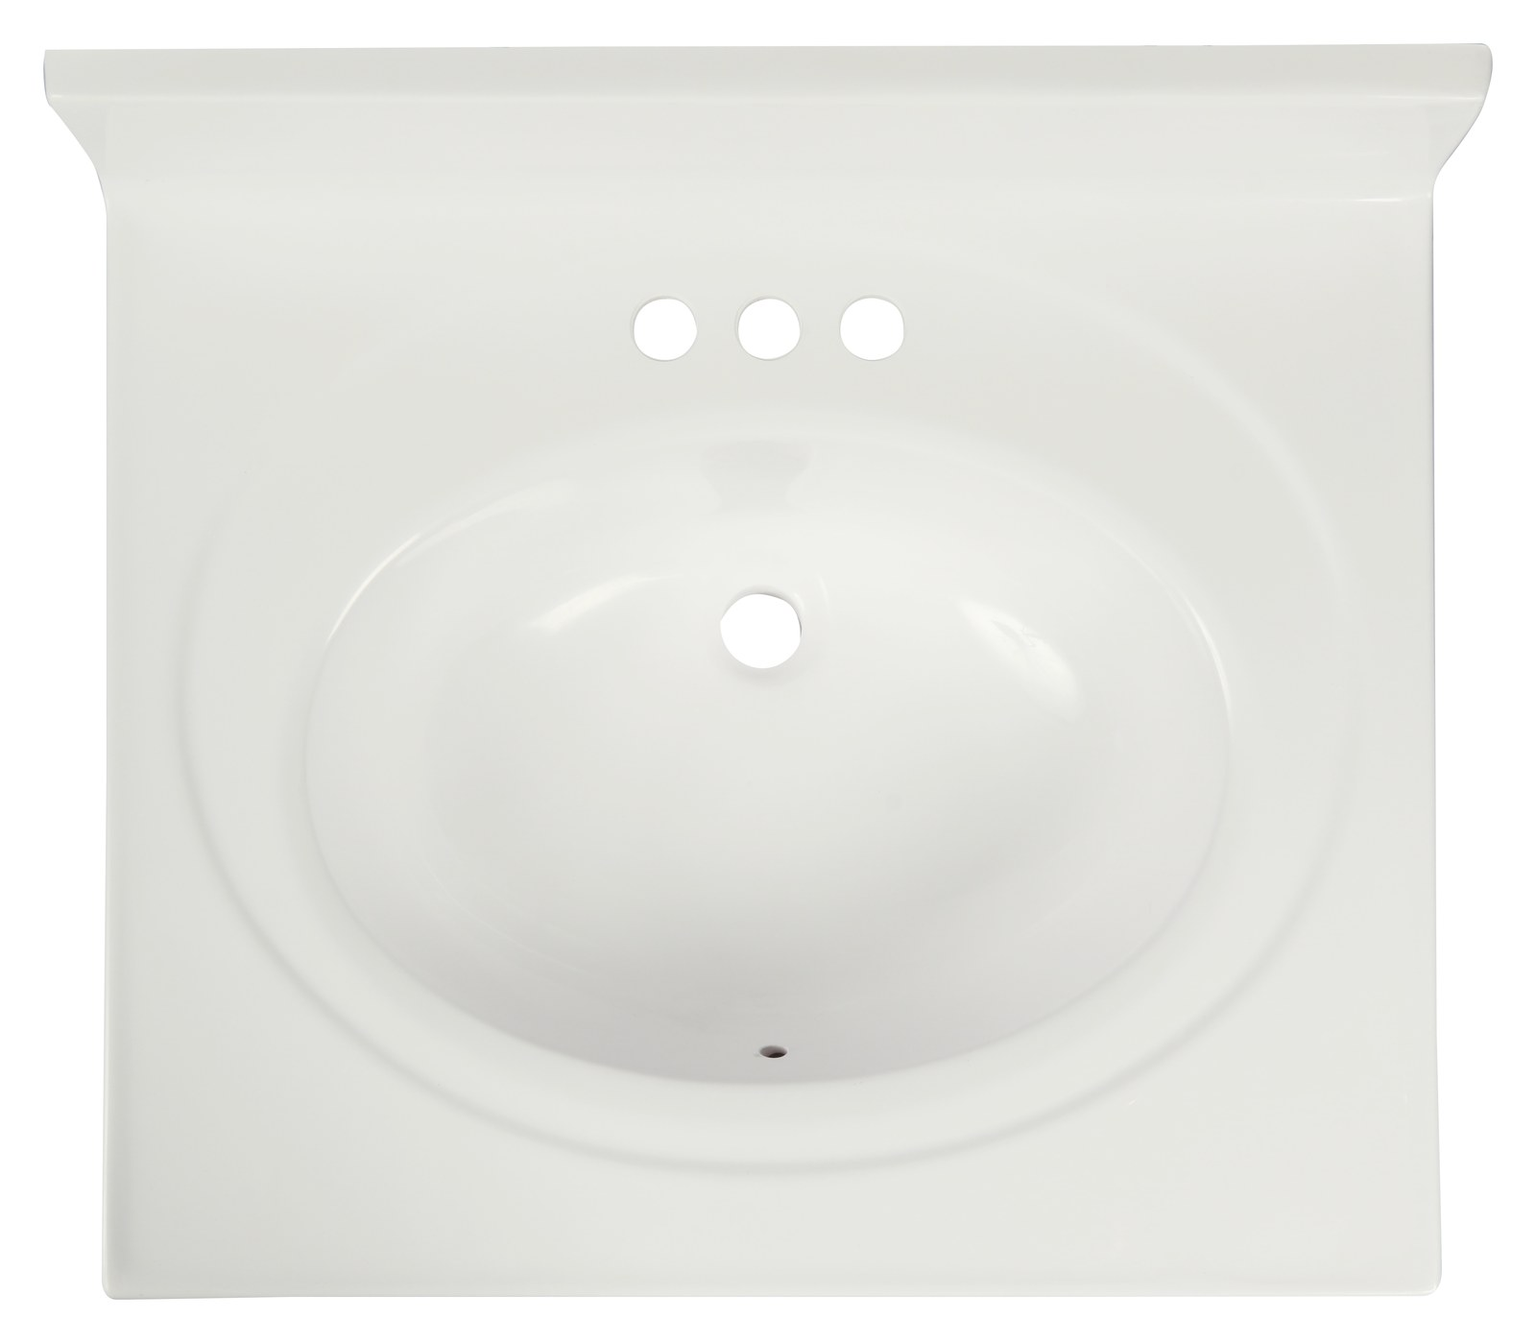
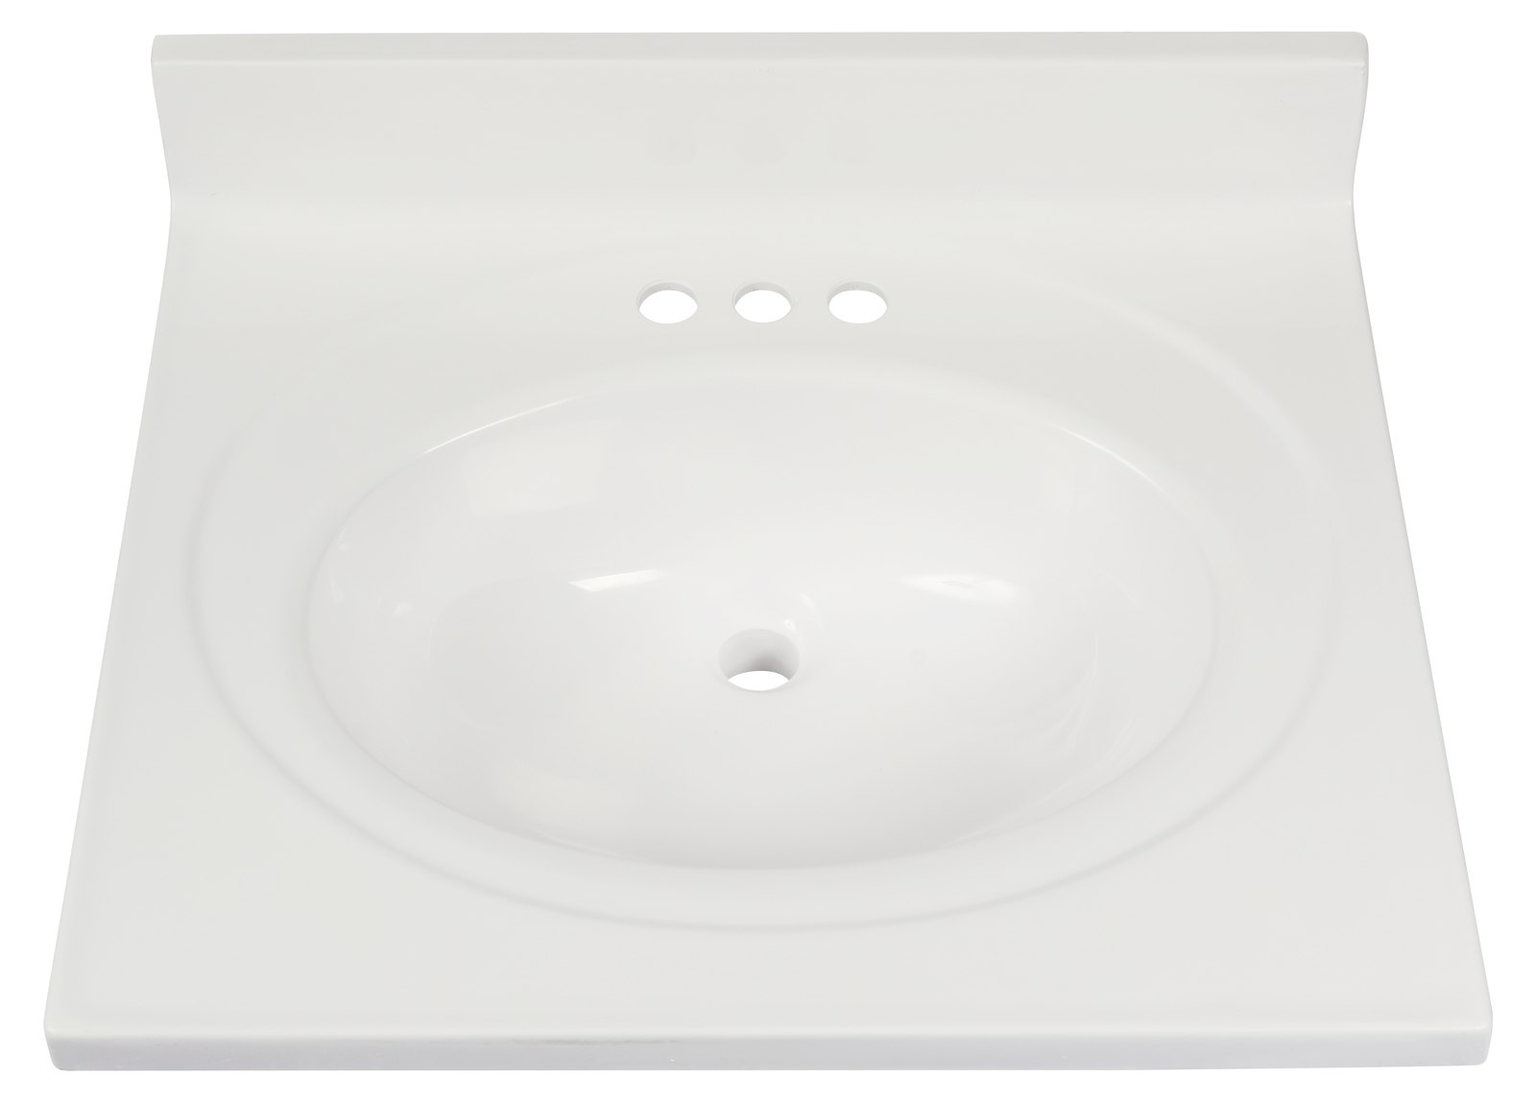
Fix thumbnail angle consistency, remove cream card background, remove Quality nav link, fix years-since inconsistency
- Revert 7 thumbnails wrongly flattened to isometric angle; convert remaining 10 to match
- Remove cream/tan tinted panel background behind product photos (reverted to white)
- Remove "Quality" nav-link from header menu across all 22 pages (footer link kept)
- Fix "17 years" to "22 years" to stay consistent with "Since 2004"

diff --git a/index.html b/index.html
@@ -96,9 +96,7 @@ input,select,textarea,button{font-family:inherit;}
     <img src="media/Logo_MVT_W.png" alt="Modular Vanity Tops" style="height:44px;">
   </a>
   <nav style="display:flex;align-items:center;gap:clamp(12px,2vw,28px);font-size:12.5px;letter-spacing:0.1em;text-transform:uppercase;font-weight:400;">
-    <a href="#nosotros" class="nav-link" style="color:rgba(255,255,255,0.82);">About</a>
-    <a href="#calidad" class="nav-link" style="color:rgba(255,255,255,0.82);">Quality</a>
-    <div class="nav-dropdown">
+    <a href="#nosotros" class="nav-link" style="color:rgba(255,255,255,0.82);">About</a>    <div class="nav-dropdown">
       <a href="collections.html" class="nav-link" style="color:rgba(255,255,255,0.82);">Collections</a>
       <div class="dropdown-menu">
         <a href="family-rectangular.html">Rectangular Family</a>
@@ -133,7 +131,7 @@ input,select,textarea,button{font-family:inherit;}
     <div style="position:relative;z-index:2;max-width:1280px;margin:0 auto;height:100%;display:flex;align-items:center;padding:0 clamp(20px,5vw,64px);">
       <div style="max-width:660px;">
         <div style="font-size:12.5px;letter-spacing:0.3em;text-transform:uppercase;color:#E7D2AE;font-weight:500;margin-bottom:22px;">Since 2004</div>
-        <h1 style="font-family:'Cormorant Garamond',serif;font-weight:600;color:#fff;font-size:clamp(2.4rem,5.6vw,4.6rem);line-height:1.08;margin:0;">17 years exporting to the U.S. and Canada.</h1>
+        <h1 style="font-family:'Cormorant Garamond',serif;font-weight:600;color:#fff;font-size:clamp(2.4rem,5.6vw,4.6rem);line-height:1.08;margin:0;">22 years exporting to the U.S. and Canada.</h1>
         <p style="font-size:clamp(15px,1.15vw,18px);line-height:1.72;color:rgba(255,255,255,0.86);max-width:520px;margin:24px 0 0;font-weight:300;">Distributing through Cultured Marble Manufacturers, Building &amp; Plumbing Suppliers, General Contractors and Home Centers.</p>
         <div style="display:flex;flex-wrap:wrap;gap:16px;margin-top:36px;">
           <a href="#nosotros" class="mt-btn mt-btn-solid" style="background:var(--accent);color:#fff;padding:15px 32px;font-size:13px;letter-spacing:0.16em;text-transform:uppercase;font-weight:500;border-radius:var(--radius);">About us</a>
@@ -186,7 +184,7 @@ input,select,textarea,button{font-family:inherit;}
 <section style="background:#20180F;color:#fff;padding:40px clamp(20px,5vw,64px);">
   <div class="mt-stagger" style="max-width:1280px;margin:0 auto;display:flex;flex-wrap:wrap;gap:30px 60px;justify-content:space-between;">
     <div style="min-width:140px;"><div style="font-family:'Cormorant Garamond',serif;font-size:clamp(2rem,3vw,2.7rem);line-height:1;">2004</div><div style="font-size:12px;letter-spacing:0.15em;text-transform:uppercase;color:rgba(255,255,255,0.55);margin-top:8px;">Since</div></div>
-    <div style="min-width:140px;"><div style="font-family:'Cormorant Garamond',serif;font-size:clamp(2rem,3vw,2.7rem);line-height:1;">17</div><div style="font-size:12px;letter-spacing:0.15em;text-transform:uppercase;color:rgba(255,255,255,0.55);margin-top:8px;">Years experience</div></div>
+    <div style="min-width:140px;"><div style="font-family:'Cormorant Garamond',serif;font-size:clamp(2rem,3vw,2.7rem);line-height:1;">22</div><div style="font-size:12px;letter-spacing:0.15em;text-transform:uppercase;color:rgba(255,255,255,0.55);margin-top:8px;">Years experience</div></div>
     <div style="min-width:140px;"><div style="font-family:'Cormorant Garamond',serif;font-size:clamp(2rem,3vw,2.7rem);line-height:1;">16</div><div style="font-size:12px;letter-spacing:0.15em;text-transform:uppercase;color:rgba(255,255,255,0.55);margin-top:8px;">Vanity top collections</div></div>
     <div style="min-width:140px;"><div style="font-family:'Cormorant Garamond',serif;font-size:clamp(2rem,3vw,2.7rem);line-height:1;">160 mi</div><div style="font-size:12px;letter-spacing:0.15em;text-transform:uppercase;color:rgba(255,255,255,0.55);margin-top:8px;">Factory to Laredo, TX</div></div>
   </div>
@@ -271,7 +269,7 @@ input,select,textarea,button{font-family:inherit;}
         <div class="adv-item"><div class="adv-check"><svg viewBox="0 0 12 12"><polyline points="2,6 5,9 10,3"/></svg></div><span>Certified by Universal Laboratories · ANSI standards</span></div>
         <div class="adv-item"><div class="adv-check"><svg viewBox="0 0 12 12"><polyline points="2,6 5,9 10,3"/></svg></div><span>Main models &amp; packaging approved by Bureau Veritas</span></div>
         <div class="adv-item"><div class="adv-check"><svg viewBox="0 0 12 12"><polyline points="2,6 5,9 10,3"/></svg></div><span>Distribution Center in Laredo, Texas</span></div>
-        <div class="adv-item"><div class="adv-check"><svg viewBox="0 0 12 12"><polyline points="2,6 5,9 10,3"/></svg></div><span>17 years exporting to the U.S. and Canada</span></div>
+        <div class="adv-item"><div class="adv-check"><svg viewBox="0 0 12 12"><polyline points="2,6 5,9 10,3"/></svg></div><span>22 years exporting to the U.S. and Canada</span></div>
       </div>
     </div>
   </div>

diff --git a/family-oval.html b/family-oval.html
@@ -55,9 +55,7 @@ a{text-decoration:none;color:inherit;}
     <img src="media/Logo_MVT_W.png" alt="Modular Vanity Tops" style="height:44px;">
   </a>
   <nav style="display:flex;align-items:center;gap:clamp(12px,2vw,28px);font-size:12.5px;letter-spacing:0.1em;text-transform:uppercase;font-weight:400;">
-    <a href="index.html#nosotros" class="nav-link" style="color:rgba(255,255,255,0.82);">About</a>
-    <a href="index.html#calidad" class="nav-link" style="color:rgba(255,255,255,0.82);">Quality</a>
-    <div class="nav-dropdown">
+    <a href="index.html#nosotros" class="nav-link" style="color:rgba(255,255,255,0.82);">About</a>    <div class="nav-dropdown">
       <a href="collections.html" class="nav-link" style="color:#fff;">Collections</a>
       <div class="dropdown-menu">
         <a href="family-rectangular.html">Rectangular Family</a>
@@ -142,13 +140,13 @@ a{text-decoration:none;color:inherit;}
 
 <script>
 var collections = [
-  { name:'Laguna', code:'LF', img:'media/products/laguna-lf/laguna-lf-top.jpg', page:'product-laguna-lf.html', fit:'contain' },
-  { name:'Laguna', code:'LG', img:'media/products/laguna-lg/laguna-lg-top.jpg', page:'product-laguna-lg.html', fit:'contain' },
-  { name:'Laguna', code:'LH', img:'media/products/laguna-lh/laguna-lh-top.jpg', page:'product-laguna-lh.html', fit:'contain' },
-  { name:'Flat Oval', code:'OW', img:'media/products/flat-oval/flat-oval-top.jpg', page:'product-flat-oval.html', fit:'contain' },
-  { name:'Luna', code:'LU', img:'media/products/luna/luna-top.jpg', page:'product-luna.html', fit:'contain' },
-  { name:'Oval', code:'OH', img:'media/products/oval-oh/oval-oh-top.jpg', page:'product-oval-oh.html', fit:'contain' },
-  { name:'Oval', code:'OV', img:'media/products/oval-ov/oval-ov-top.jpg', page:'product-oval-ov.html', fit:'contain' }
+  { name:'Laguna', code:'LF', img:'media/products/laguna-lf/laguna-lf-angle.jpg', page:'product-laguna-lf.html', fit:'contain' },
+  { name:'Laguna', code:'LG', img:'media/products/laguna-lg/laguna-lg-angle.jpg', page:'product-laguna-lg.html', fit:'contain' },
+  { name:'Laguna', code:'LH', img:'media/products/laguna-lh/laguna-lh-angle.jpg', page:'product-laguna-lh.html', fit:'contain' },
+  { name:'Flat Oval', code:'OW', img:'media/products/flat-oval/flat-oval-angle.jpg', page:'product-flat-oval.html', fit:'contain' },
+  { name:'Luna', code:'LU', img:'media/products/luna/luna-angle.jpg', page:'product-luna.html', fit:'contain' },
+  { name:'Oval', code:'OH', img:'media/products/oval-oh/oval-oh-angle.jpg', page:'product-oval-oh.html', fit:'contain' },
+  { name:'Oval', code:'OV', img:'media/products/oval-ov/oval-ov-angle.jpg', page:'product-oval-ov.html', fit:'contain' }
 ];
 
 function renderCollections() {
@@ -159,7 +157,7 @@ function renderCollections() {
     card.className = 'coll-card';
     if (c.fit === 'contain') {
       card.style.cssText = 'border-radius:var(--radius);overflow:hidden;cursor:pointer;background:#fff;border:1px solid var(--line);display:flex;flex-direction:column;';
-      card.innerHTML = '<div style="aspect-ratio:5/4;background:linear-gradient(160deg,var(--stone-mid),#F3EEE3);display:flex;align-items:center;justify-content:center;padding:9%;overflow:hidden;">'
+      card.innerHTML = '<div style="aspect-ratio:5/4;background:#fff;display:flex;align-items:center;justify-content:center;padding:6%;overflow:hidden;">'
         + '<img class="coll-img" src="'+c.img+'" alt="'+c.name+' ('+c.code+')" style="max-width:100%;max-height:100%;width:auto;height:auto;object-fit:contain;filter:drop-shadow(0 16px 18px rgba(43,39,31,0.18));transition:transform .5s;">'
         + '</div>'
         + '<div style="background:#20180F;padding:16px 20px;display:flex;justify-content:space-between;align-items:center;gap:10px;">'

diff --git a/family-contemporary.html b/family-contemporary.html
@@ -55,9 +55,7 @@ a{text-decoration:none;color:inherit;}
     <img src="media/Logo_MVT_W.png" alt="Modular Vanity Tops" style="height:44px;">
   </a>
   <nav style="display:flex;align-items:center;gap:clamp(12px,2vw,28px);font-size:12.5px;letter-spacing:0.1em;text-transform:uppercase;font-weight:400;">
-    <a href="index.html#nosotros" class="nav-link" style="color:rgba(255,255,255,0.82);">About</a>
-    <a href="index.html#calidad" class="nav-link" style="color:rgba(255,255,255,0.82);">Quality</a>
-    <div class="nav-dropdown">
+    <a href="index.html#nosotros" class="nav-link" style="color:rgba(255,255,255,0.82);">About</a>    <div class="nav-dropdown">
       <a href="collections.html" class="nav-link" style="color:#fff;">Collections</a>
       <div class="dropdown-menu">
         <a href="family-rectangular.html">Rectangular Family</a>
@@ -142,9 +140,9 @@ a{text-decoration:none;color:inherit;}
 
 <script>
 var collections = [
-  { name:'Cascada', code:'CD', img:'media/products/cascada/cascada-top.jpg', page:'product-cascada.html', fit:'contain' },
-  { name:'Citlali', code:'CT', img:'media/products/citlali/citlali-top.jpg', page:'product-citlali.html', fit:'contain' },
-  { name:'Citrino', code:'CI', img:'media/products/citrino/citrino-top.jpg', page:'product-citrino.html', fit:'contain' },
+  { name:'Cascada', code:'CD', img:'media/products/cascada/cascada-angle.jpg', page:'product-cascada.html', fit:'contain' },
+  { name:'Citlali', code:'CT', img:'media/products/citlali/citlali-angle.jpg', page:'product-citlali.html', fit:'contain' },
+  { name:'Citrino', code:'CI', img:'media/products/citrino/citrino-angle.jpg', page:'product-citrino.html', fit:'contain' },
   { name:'Vaesa', code:'VA', img:'media/products/vaesa/vaesa-top.jpg', page:'product-vaesa.html', fit:'contain' },
   { name:'Lucerna', code:'LC', img:'media/products/lucerna/lucerna-top.jpg', page:'product-lucerna.html', fit:'contain' },
   { name:'Sephora', code:'ZP', img:'media/products/sephora/sephora-top.jpg', page:'product-sephora.html', fit:'contain' }
@@ -158,7 +156,7 @@ function renderCollections() {
     card.className = 'coll-card';
     if (c.fit === 'contain') {
       card.style.cssText = 'border-radius:var(--radius);overflow:hidden;cursor:pointer;background:#fff;border:1px solid var(--line);display:flex;flex-direction:column;';
-      card.innerHTML = '<div style="aspect-ratio:5/4;background:linear-gradient(160deg,var(--stone-mid),#F3EEE3);display:flex;align-items:center;justify-content:center;padding:9%;overflow:hidden;">'
+      card.innerHTML = '<div style="aspect-ratio:5/4;background:#fff;display:flex;align-items:center;justify-content:center;padding:6%;overflow:hidden;">'
         + '<img class="coll-img" src="'+c.img+'" alt="'+c.name+' ('+c.code+')" style="max-width:100%;max-height:100%;width:auto;height:auto;object-fit:contain;filter:drop-shadow(0 16px 18px rgba(43,39,31,0.18));transition:transform .5s;">'
         + '</div>'
         + '<div style="background:#20180F;padding:16px 20px;display:flex;justify-content:space-between;align-items:center;gap:10px;">'

diff --git a/family-rectangular.html b/family-rectangular.html
@@ -55,9 +55,7 @@ a{text-decoration:none;color:inherit;}
     <img src="media/Logo_MVT_W.png" alt="Modular Vanity Tops" style="height:44px;">
   </a>
   <nav style="display:flex;align-items:center;gap:clamp(12px,2vw,28px);font-size:12.5px;letter-spacing:0.1em;text-transform:uppercase;font-weight:400;">
-    <a href="index.html#nosotros" class="nav-link" style="color:rgba(255,255,255,0.82);">About</a>
-    <a href="index.html#calidad" class="nav-link" style="color:rgba(255,255,255,0.82);">Quality</a>
-    <div class="nav-dropdown">
+    <a href="index.html#nosotros" class="nav-link" style="color:rgba(255,255,255,0.82);">About</a>    <div class="nav-dropdown">
       <a href="collections.html" class="nav-link" style="color:#fff;">Collections</a>
       <div class="dropdown-menu">
         <a href="family-rectangular.html">Rectangular Family</a>
@@ -143,9 +141,9 @@ a{text-decoration:none;color:inherit;}
 <script>
 var collections = [
   { name:'Valerie', code:'WO', img:'media/products/valerie/valerie-top.jpg', page:'product-valerie.html', fit:'contain' },
-  { name:'Lavante', code:'LV', img:'media/products/lavante/lavante-top.jpg', page:'product-lavante.html', fit:'contain' },
+  { name:'Lavante', code:'LV', img:'media/products/lavante/lavante-angle.jpg', page:'product-lavante.html', fit:'contain' },
   { name:'Tuscany', code:'TS', img:'media/products/tuscany/tuscany-top.jpg', page:'product-tuscany.html', fit:'contain' },
-  { name:'Contempo', code:'CO', img:'media/products/contempo/contempo-top.jpg', page:'product-contempo.html', fit:'contain' }
+  { name:'Contempo', code:'CO', img:'media/products/contempo/contempo-front.jpg', page:'product-contempo.html', fit:'contain' }
 ];
 
 function renderCollections() {
@@ -156,7 +154,7 @@ function renderCollections() {
     card.className = 'coll-card';
     if (c.fit === 'contain') {
       card.style.cssText = 'border-radius:var(--radius);overflow:hidden;cursor:pointer;background:#fff;border:1px solid var(--line);display:flex;flex-direction:column;';
-      card.innerHTML = '<div style="aspect-ratio:5/4;background:linear-gradient(160deg,var(--stone-mid),#F3EEE3);display:flex;align-items:center;justify-content:center;padding:9%;overflow:hidden;">'
+      card.innerHTML = '<div style="aspect-ratio:5/4;background:#fff;display:flex;align-items:center;justify-content:center;padding:6%;overflow:hidden;">'
         + '<img class="coll-img" src="'+c.img+'" alt="'+c.name+' ('+c.code+')" style="max-width:100%;max-height:100%;width:auto;height:auto;object-fit:contain;filter:drop-shadow(0 16px 18px rgba(43,39,31,0.18));transition:transform .5s;">'
         + '</div>'
         + '<div style="background:#20180F;padding:16px 20px;display:flex;justify-content:space-between;align-items:center;gap:10px;">'

diff --git a/product-cascada.html b/product-cascada.html
@@ -61,9 +61,7 @@ table.spec td.num{font-family:'Cormorant Garamond',serif;font-size:16px;}
     <img src="media/Logo_MVT_W.png" alt="Modular Vanity Tops" style="height:44px;">
   </a>
   <nav style="display:flex;align-items:center;gap:clamp(12px,2vw,28px);font-size:12.5px;letter-spacing:0.1em;text-transform:uppercase;font-weight:400;">
-    <a href="index.html#nosotros" class="nav-link" style="color:rgba(255,255,255,0.82);">About</a>
-    <a href="index.html#calidad" class="nav-link" style="color:rgba(255,255,255,0.82);">Quality</a>
-    <div class="nav-dropdown">
+    <a href="index.html#nosotros" class="nav-link" style="color:rgba(255,255,255,0.82);">About</a>    <div class="nav-dropdown">
       <a href="collections.html" class="nav-link" style="color:rgba(255,255,255,0.82);">Collections</a>
       <div class="dropdown-menu">
         <a href="family-rectangular.html">Rectangular Family</a>

diff --git a/product-citlali.html b/product-citlali.html
@@ -61,9 +61,7 @@ table.spec td.num{font-family:'Cormorant Garamond',serif;font-size:16px;}
     <img src="media/Logo_MVT_W.png" alt="Modular Vanity Tops" style="height:44px;">
   </a>
   <nav style="display:flex;align-items:center;gap:clamp(12px,2vw,28px);font-size:12.5px;letter-spacing:0.1em;text-transform:uppercase;font-weight:400;">
-    <a href="index.html#nosotros" class="nav-link" style="color:rgba(255,255,255,0.82);">About</a>
-    <a href="index.html#calidad" class="nav-link" style="color:rgba(255,255,255,0.82);">Quality</a>
-    <div class="nav-dropdown">
+    <a href="index.html#nosotros" class="nav-link" style="color:rgba(255,255,255,0.82);">About</a>    <div class="nav-dropdown">
       <a href="collections.html" class="nav-link" style="color:rgba(255,255,255,0.82);">Collections</a>
       <div class="dropdown-menu">
         <a href="family-rectangular.html">Rectangular Family</a>

diff --git a/product-citrino.html b/product-citrino.html
@@ -61,9 +61,7 @@ table.spec td.num{font-family:'Cormorant Garamond',serif;font-size:16px;}
     <img src="media/Logo_MVT_W.png" alt="Modular Vanity Tops" style="height:44px;">
   </a>
   <nav style="display:flex;align-items:center;gap:clamp(12px,2vw,28px);font-size:12.5px;letter-spacing:0.1em;text-transform:uppercase;font-weight:400;">
-    <a href="index.html#nosotros" class="nav-link" style="color:rgba(255,255,255,0.82);">About</a>
-    <a href="index.html#calidad" class="nav-link" style="color:rgba(255,255,255,0.82);">Quality</a>
-    <div class="nav-dropdown">
+    <a href="index.html#nosotros" class="nav-link" style="color:rgba(255,255,255,0.82);">About</a>    <div class="nav-dropdown">
       <a href="collections.html" class="nav-link" style="color:rgba(255,255,255,0.82);">Collections</a>
       <div class="dropdown-menu">
         <a href="family-rectangular.html">Rectangular Family</a>

diff --git a/product-contempo.html b/product-contempo.html
@@ -61,9 +61,7 @@ table.spec td.num{font-family:'Cormorant Garamond',serif;font-size:16px;}
     <img src="media/Logo_MVT_W.png" alt="Modular Vanity Tops" style="height:44px;">
   </a>
   <nav style="display:flex;align-items:center;gap:clamp(12px,2vw,28px);font-size:12.5px;letter-spacing:0.1em;text-transform:uppercase;font-weight:400;">
-    <a href="index.html#nosotros" class="nav-link" style="color:rgba(255,255,255,0.82);">About</a>
-    <a href="index.html#calidad" class="nav-link" style="color:rgba(255,255,255,0.82);">Quality</a>
-    <div class="nav-dropdown">
+    <a href="index.html#nosotros" class="nav-link" style="color:rgba(255,255,255,0.82);">About</a>    <div class="nav-dropdown">
       <a href="collections.html" class="nav-link" style="color:rgba(255,255,255,0.82);">Collections</a>
       <div class="dropdown-menu">
         <a href="family-rectangular.html">Rectangular Family</a>

diff --git a/product-flat-oval.html b/product-flat-oval.html
@@ -61,9 +61,7 @@ table.spec td.num{font-family:'Cormorant Garamond',serif;font-size:16px;}
     <img src="media/Logo_MVT_W.png" alt="Modular Vanity Tops" style="height:44px;">
   </a>
   <nav style="display:flex;align-items:center;gap:clamp(12px,2vw,28px);font-size:12.5px;letter-spacing:0.1em;text-transform:uppercase;font-weight:400;">
-    <a href="index.html#nosotros" class="nav-link" style="color:rgba(255,255,255,0.82);">About</a>
-    <a href="index.html#calidad" class="nav-link" style="color:rgba(255,255,255,0.82);">Quality</a>
-    <div class="nav-dropdown">
+    <a href="index.html#nosotros" class="nav-link" style="color:rgba(255,255,255,0.82);">About</a>    <div class="nav-dropdown">
       <a href="collections.html" class="nav-link" style="color:rgba(255,255,255,0.82);">Collections</a>
       <div class="dropdown-menu">
         <a href="family-rectangular.html">Rectangular Family</a>

diff --git a/product-laguna-lf.html b/product-laguna-lf.html
@@ -61,9 +61,7 @@ table.spec td.num{font-family:'Cormorant Garamond',serif;font-size:16px;}
     <img src="media/Logo_MVT_W.png" alt="Modular Vanity Tops" style="height:44px;">
   </a>
   <nav style="display:flex;align-items:center;gap:clamp(12px,2vw,28px);font-size:12.5px;letter-spacing:0.1em;text-transform:uppercase;font-weight:400;">
-    <a href="index.html#nosotros" class="nav-link" style="color:rgba(255,255,255,0.82);">About</a>
-    <a href="index.html#calidad" class="nav-link" style="color:rgba(255,255,255,0.82);">Quality</a>
-    <div class="nav-dropdown">
+    <a href="index.html#nosotros" class="nav-link" style="color:rgba(255,255,255,0.82);">About</a>    <div class="nav-dropdown">
       <a href="collections.html" class="nav-link" style="color:rgba(255,255,255,0.82);">Collections</a>
       <div class="dropdown-menu">
         <a href="family-rectangular.html">Rectangular Family</a>

diff --git a/product-laguna-lg.html b/product-laguna-lg.html
@@ -61,9 +61,7 @@ table.spec td.num{font-family:'Cormorant Garamond',serif;font-size:16px;}
     <img src="media/Logo_MVT_W.png" alt="Modular Vanity Tops" style="height:44px;">
   </a>
   <nav style="display:flex;align-items:center;gap:clamp(12px,2vw,28px);font-size:12.5px;letter-spacing:0.1em;text-transform:uppercase;font-weight:400;">
-    <a href="index.html#nosotros" class="nav-link" style="color:rgba(255,255,255,0.82);">About</a>
-    <a href="index.html#calidad" class="nav-link" style="color:rgba(255,255,255,0.82);">Quality</a>
-    <div class="nav-dropdown">
+    <a href="index.html#nosotros" class="nav-link" style="color:rgba(255,255,255,0.82);">About</a>    <div class="nav-dropdown">
       <a href="collections.html" class="nav-link" style="color:rgba(255,255,255,0.82);">Collections</a>
       <div class="dropdown-menu">
         <a href="family-rectangular.html">Rectangular Family</a>

diff --git a/product-laguna-lh.html b/product-laguna-lh.html
@@ -61,9 +61,7 @@ table.spec td.num{font-family:'Cormorant Garamond',serif;font-size:16px;}
     <img src="media/Logo_MVT_W.png" alt="Modular Vanity Tops" style="height:44px;">
   </a>
   <nav style="display:flex;align-items:center;gap:clamp(12px,2vw,28px);font-size:12.5px;letter-spacing:0.1em;text-transform:uppercase;font-weight:400;">
-    <a href="index.html#nosotros" class="nav-link" style="color:rgba(255,255,255,0.82);">About</a>
-    <a href="index.html#calidad" class="nav-link" style="color:rgba(255,255,255,0.82);">Quality</a>
-    <div class="nav-dropdown">
+    <a href="index.html#nosotros" class="nav-link" style="color:rgba(255,255,255,0.82);">About</a>    <div class="nav-dropdown">
       <a href="collections.html" class="nav-link" style="color:rgba(255,255,255,0.82);">Collections</a>
       <div class="dropdown-menu">
         <a href="family-rectangular.html">Rectangular Family</a>
